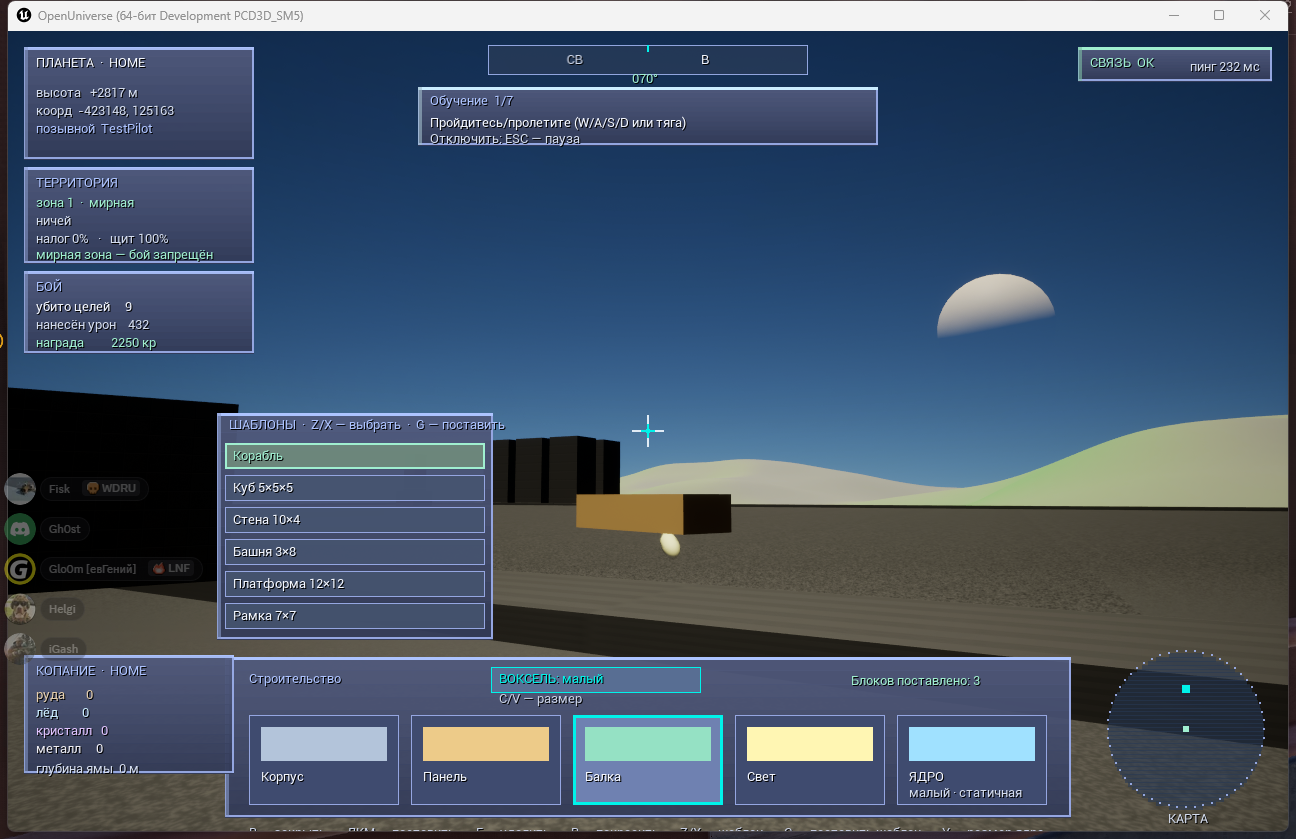
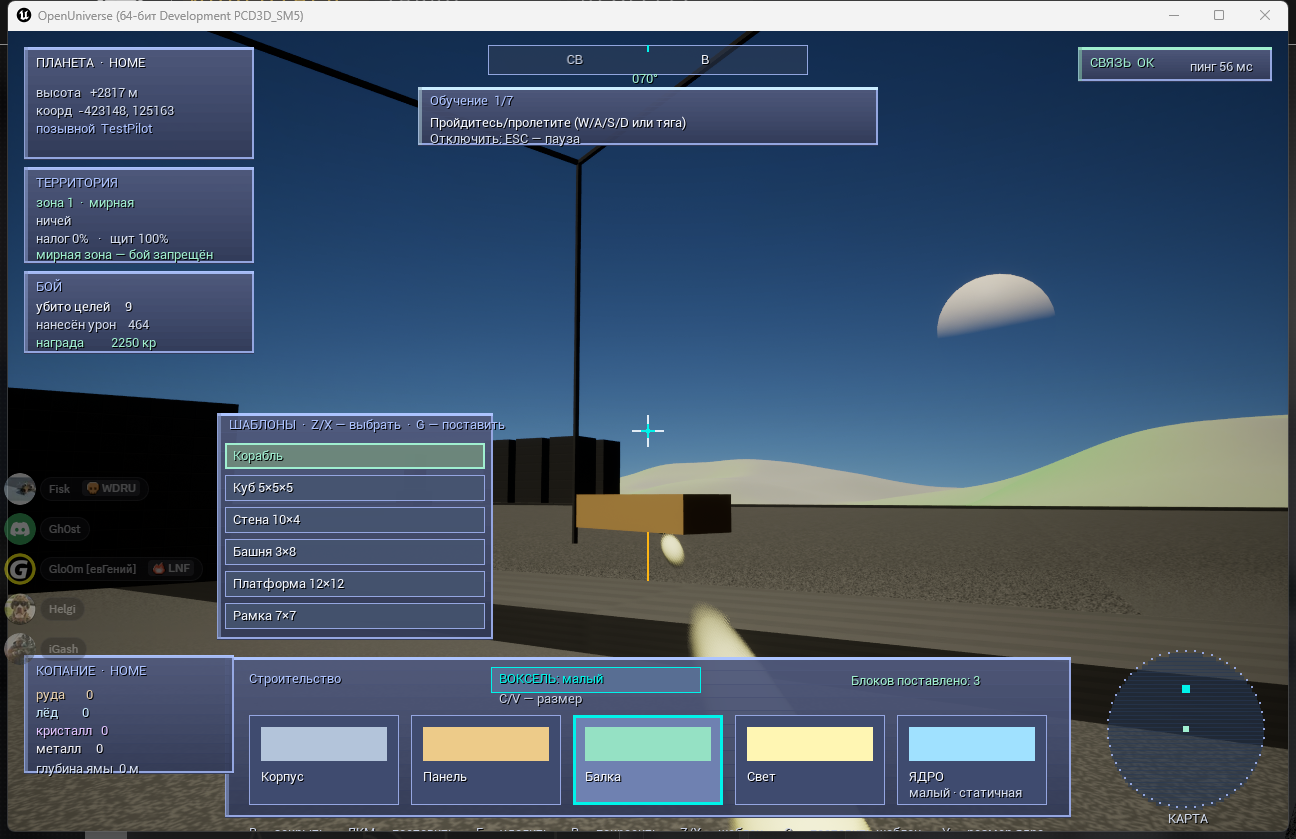
fix(build): the core is placed under the crosshair (not snapped into an existing build) and is shown highlighted with its area grid; reset local blocks only when the core actually changes

diff --git a/client/Source/OpenUniverse/OUCharacterPawn.cpp b/client/Source/OpenUniverse/OUCharacterPawn.cpp
@@ -765,10 +765,19 @@ void AOUCharacterPawn::PlaceCoreBlock()
 		UE_LOG(LogOUChar, Log, TEXT("Ядро: нет соединения с сервером"));
 		return;
 	}
+	// Ядро ставится ПРЯМО под прицел (а не снапом к чужим блокам, как обычный
+	// воксель): иначе оно появлялось бы внутри уже стоящей постройки и его не
+	// было бы видно. Ищем ячейку на земле под прицелом.
+	FVector GroundDir;
 	FIntVector Target;
-	if (!ComputeBuildTarget(Target))
+	if (AimTerrainDir(GroundDir))
 	{
-		return;
+		Target = WorldToVoxel(GroundDir * (SurfaceRadius(GroundDir) + 75.f));
+	}
+	else
+	{
+		// Прицел в небо — ставим перед игроком (запасной путь).
+		Target = WorldToVoxel(GetActorLocation() + GetActorForwardVector() * 600.f);
 	}
 	Net->SendPlaceCore(CoreSizeVoxels(), CoreKindSel, Target.X, Target.Y, Target.Z);
 	UE_LOG(LogOUChar, Log, TEXT("Ядро: поставить %s %s в (%d,%d,%d)"),
@@ -919,9 +928,9 @@ void AOUCharacterPawn::UpdateBuildGhost()
 		FVector(Col.R * 0.8f + 0.2f, Col.G * 0.8f + 0.2f, Col.B * 0.8f + 0.2f));
 	BuildGhost->SetVisibility(true);
 
-	// Сетка ядра: когда выбран слот «ЯДРО», показываем «еле видный» каркас куба
-	// размером с будущее ядро — границы, в которых можно строить. Центр — ячейка
-	// под прицелом (не куб кисти), чтобы игрок понимал, где встанет ядро.
+	// Сетка области ядра. Когда выбран слот «ЯДРО» — сетка показывается в месте
+	// под прицелом (куда встанет). Когда ядро уже стоит и слот не выбран —
+	// показываем сетку вокруг ПОСТАВЛЕННОГО ядра: так установка ядра видна.
 	if (bCoreSel)
 	{
 		UWorld* World = GetWorld();
@@ -933,6 +942,20 @@ void AOUCharacterPawn::UpdateBuildGhost()
 		{
 			const FVector CoreCenter = VoxelWorld(FVector(Target.X, Target.Y, Target.Z));
 			BuildGrid->Setup(CoreCenter, 150.0 * static_cast<double>(CoreSizeVoxels()), BuildGridRotation());
+		}
+	}
+	else if (Net && Net->CoreSize > 0)
+	{
+		// Ядро уже поставлено — держим его сетку видимой (еле заметную).
+		UWorld* World = GetWorld();
+		if (!BuildGrid && World)
+		{
+			BuildGrid = World->SpawnActor<AOUBuildGrid>(AOUBuildGrid::StaticClass(), FTransform::Identity);
+		}
+		if (BuildGrid)
+		{
+			const FVector CoreCenter = VoxelWorld(FVector(Net->CoreCoord.X, Net->CoreCoord.Y, Net->CoreCoord.Z));
+			BuildGrid->Setup(CoreCenter, 150.0 * static_cast<double>(Net->CoreSize), BuildGridRotation());
 		}
 	}
 	else if (BuildGrid)
@@ -1235,7 +1258,26 @@ bool AOUCharacterPawn::ComputeBuildTarget(FIntVector& OutTarget) const
 
 void AOUCharacterPawn::ApplyServerBuildEdits()
 {
-	if (!Net || Net->PendingBuildEdits.Num() == 0)
+	if (!Net)
+	{
+		return;
+	}
+	// Сервер поставил новое ядро — он очистил сетку постройки. Убираем старые
+	// кубы и у себя: иначе установка ядра «не видна» (её закрывают старые блоки).
+	if (Net->bCoreResetPending)
+	{
+		Net->bCoreResetPending = false;
+		for (const TPair<FIntVector, TObjectPtr<AOUBuildBlock>>& P : ServerBlocks)
+		{
+			if (P.Value) { P.Value->Destroy(); }
+		}
+		ServerBlocks.Reset();
+		BlockCoords.Reset();
+		BuiltCoords.Reset();
+		BuiltCount = 0;
+		UE_LOG(LogOUChar, Log, TEXT("Ядро: сброшены локальные блоки (новое ядро)"));
+	}
+	if (Net->PendingBuildEdits.Num() == 0)
 	{
 		return;
 	}
@@ -1265,7 +1307,12 @@ void AOUCharacterPawn::ApplyServerBuildEdits()
 					// разного размера видны как кубы разной величины.
 					const int32 VSize = FMath::Clamp(static_cast<int32>(E.Size), 1, 3);
 					Block->BlockSize = 150.f * static_cast<float>(VSize);
-					Block->BlockColor = FLinearColor(E.R / 255.f, E.G / 255.f, E.B / 255.f);
+					// Ядро — особым акцентным цветом, чтобы его было видно среди
+					// обычных блоков (по координате ядра из сервера).
+					const bool bIsCore = (E.Entity == Net->OwnEntityId && Key == Net->CoreCoord);
+					Block->BlockColor = bIsCore
+						? FLinearColor(0.16f, 0.62f, 0.72f)   // акцентный (ядро)
+						: FLinearColor(E.R / 255.f, E.G / 255.f, E.B / 255.f);
 					Block->ApplyLook();
 					ServerBlocks.Add(Key, Block);
 					BlockCoords.Add(Block, Key);
@@ -1275,8 +1322,15 @@ void AOUCharacterPawn::ApplyServerBuildEdits()
 					{
 						++BuiltCount;
 					}
-					UE_LOG(LogOUChar, Log, TEXT("Авторитетный блок (%d,%d,%d) размера %d от сервера"),
-						E.X, E.Y, E.Z, VSize);
+					UE_LOG(LogOUChar, Log, TEXT("Авторитетный блок (%d,%d,%d) размера %d%s от сервера"),
+						E.X, E.Y, E.Z, VSize, bIsCore ? TEXT(" [ЯДРО]") : TEXT(""));
+					if (bIsCore)
+					{
+						const FVector CamPos = Camera ? Camera->GetComponentLocation() : GetActorLocation();
+						UE_LOG(LogOUChar, Log, TEXT("Ядро: мир %s, игрок %s, дист до камеры %.0f см"),
+							*Pos.ToCompactString(), *CamPos.ToCompactString(),
+							FVector::Dist(Pos, CamPos));
+					}
 				}
 			}
 		}

diff --git a/client/Source/OpenUniverse/OUClientNet.cpp b/client/Source/OpenUniverse/OUClientNet.cpp
@@ -1138,11 +1138,24 @@ void UOUClientNet::Poll()
 			OUWire::CoreInfo S;
 			if (OUWire::DecodeCore(Body.GetData(), static_cast<size_t>(Body.Num()), S))
 			{
-				CoreSize = static_cast<int32>(S.Size);
-				CoreKind = static_cast<int32>(S.Kind);
-				CoreCoord = FIntVector(S.X, S.Y, S.Z);
-				UE_LOG(LogOUClient, Log, TEXT("Ядро: %dx%d, тип %d, ячейка (%d,%d,%d)"),
-					CoreSize, CoreSize, CoreKind, S.X, S.Y, S.Z);
+				const FIntVector NewCoord(S.X, S.Y, S.Z);
+				const int32 NewSize = static_cast<int32>(S.Size);
+				const int32 NewKind = static_cast<int32>(S.Kind);
+				// Сброс локальных блоков нужен ТОЛЬКО когда ядро реально сменилось
+				// (сервер шлёт ServerCore и при каждой полной выгрузке — иначе
+				// постройка мигала бы, удаляясь и создаваясь заново).
+				const bool bCoreChanged =
+					(CoreSize != NewSize) || (CoreKind != NewKind) || (CoreCoord != NewCoord);
+				CoreSize = NewSize;
+				CoreKind = NewKind;
+				CoreCoord = NewCoord;
+				if (bCoreChanged)
+				{
+					bCoreResetPending = true;
+				}
+				UE_LOG(LogOUClient, Log, TEXT("Ядро: %dx%d, тип %d, ячейка (%d,%d,%d)%s"),
+					CoreSize, CoreSize, CoreKind, S.X, S.Y, S.Z,
+					bCoreChanged ? TEXT(" (новое)") : TEXT(""));
 			}
 		}
 		else if (Body[0] == OUWire::TagCoreResult) // результат установки ядра

diff --git a/client/Source/OpenUniverse/OUClientNet.h b/client/Source/OpenUniverse/OUClientNet.h
@@ -954,6 +954,9 @@ public:
 	UPROPERTY(BlueprintReadOnly, Category = "Open Universe|Build")
 	FIntVector CoreCoord = FIntVector::ZeroValue;
 
+	/** Нужно сбросить локальные блоки (сервер поставил новое ядро). */
+	bool bCoreResetPending = false;
+
 	/** Последнее сообщение по ядру (для подсказки в HUD). */
 	UPROPERTY(BlueprintReadOnly, Category = "Open Universe|Build")
 	FString LastCoreMessage;
